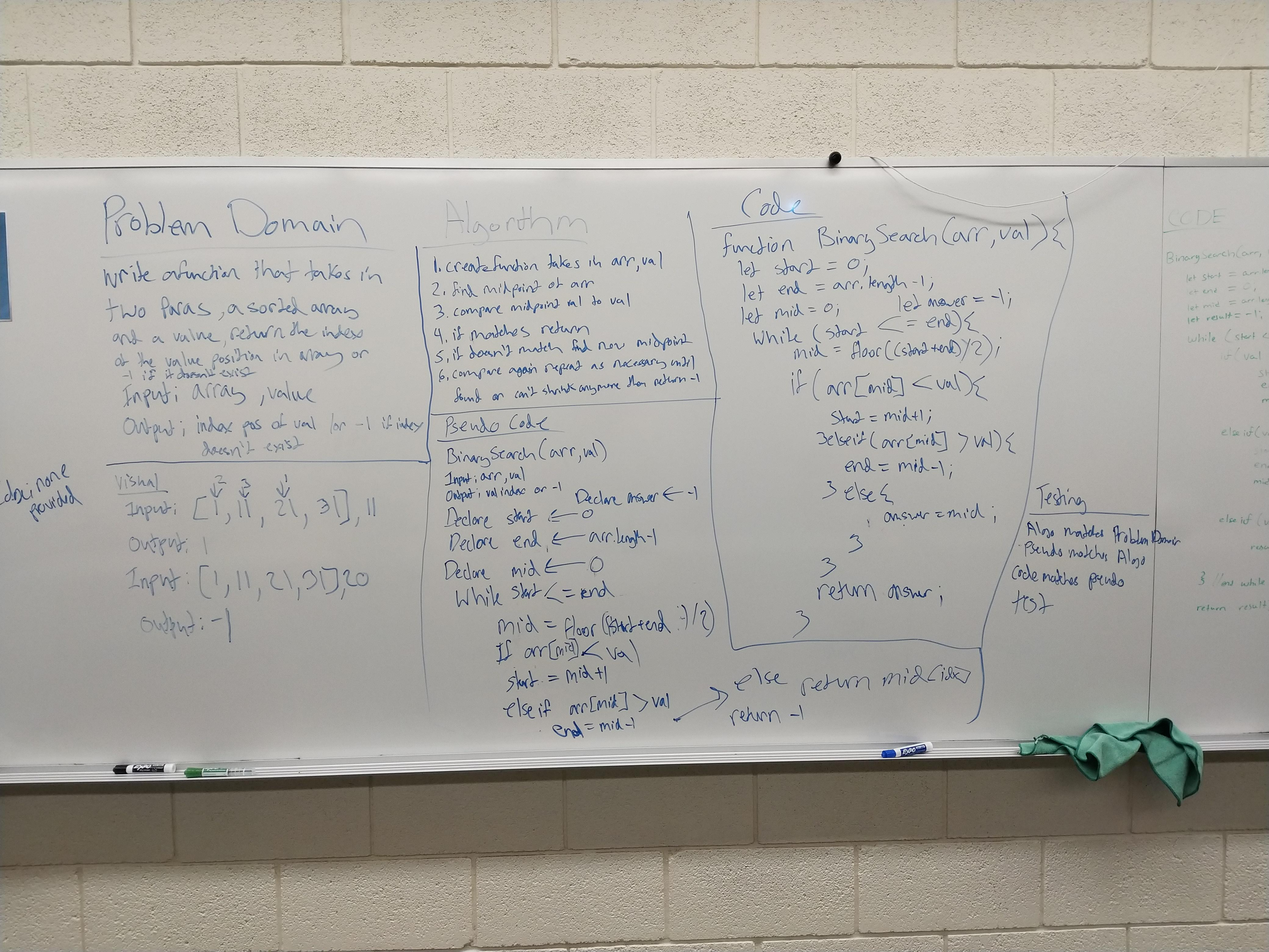
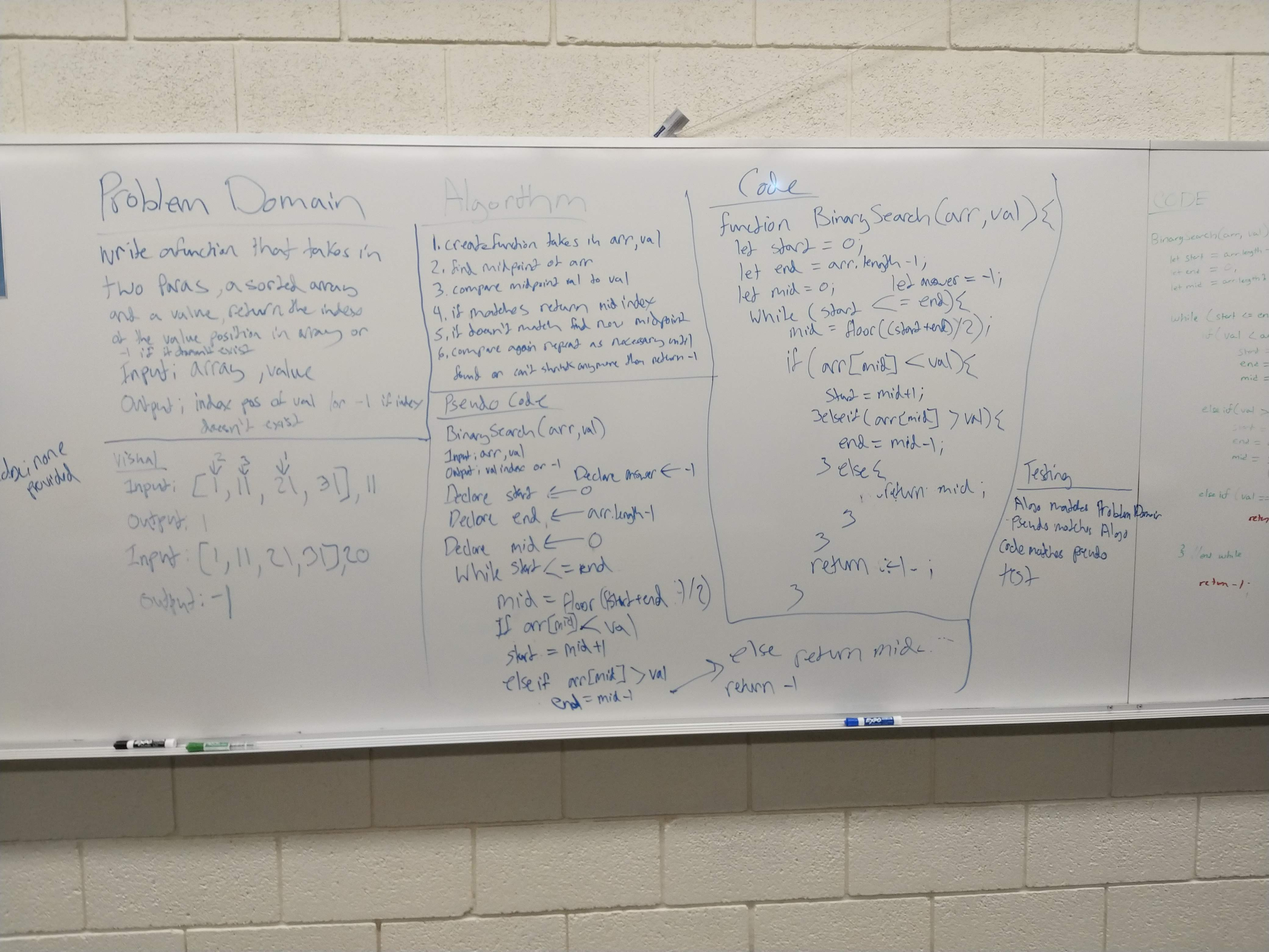
algo translated from whiteboard readme added

diff --git a/code-challenges/401/arrayBinarySearch/array-binary-search.js b/code-challenges/401/arrayBinarySearch/array-binary-search.js
@@ -1,10 +1,9 @@
 'use strict';
 
-function BinarySearch(arr, val){
+function binarySearch(arr, val){
   let start =0;
   let end = arr.length - 1;
   let mid = 0;
-  let answer = -1;
 
   while(start <= end){
     mid = Math.floor((start + end) / 2);
@@ -13,9 +12,11 @@ function BinarySearch(arr, val){
     }else if(arr[mid] > val){
       end = mid - 1;
     }else{
-      answer = mid;
+      return mid;
     }
   }
-  return answer;
+  return -1;
 }
 
+console.log(binarySearch([1, 3, 5, 6], 3));
+console.log(binarySearch([1, 3, 5, 6], 2));

diff --git a/code-challenges/401/arrayBinarySearch/Readme.md b/code-challenges/401/arrayBinarySearch/Readme.md
@@ -1,0 +1,12 @@
+# Reverse an Array
+<!-- Short summary or background information -->
+Reversing an array
+## Challenge
+<!-- Description of the challenge -->
+Challenge is to reverse an array without using any js built ins
+## Approach & Efficiency
+<!-- What approach did you take? Why? What is the Big O space/time for this approach? -->
+Whiteboarded then coded
+## Solution
+<!-- Embedded whiteboard image -->
+* [whiteboard image](../assets/array-binary-search.jpg)
